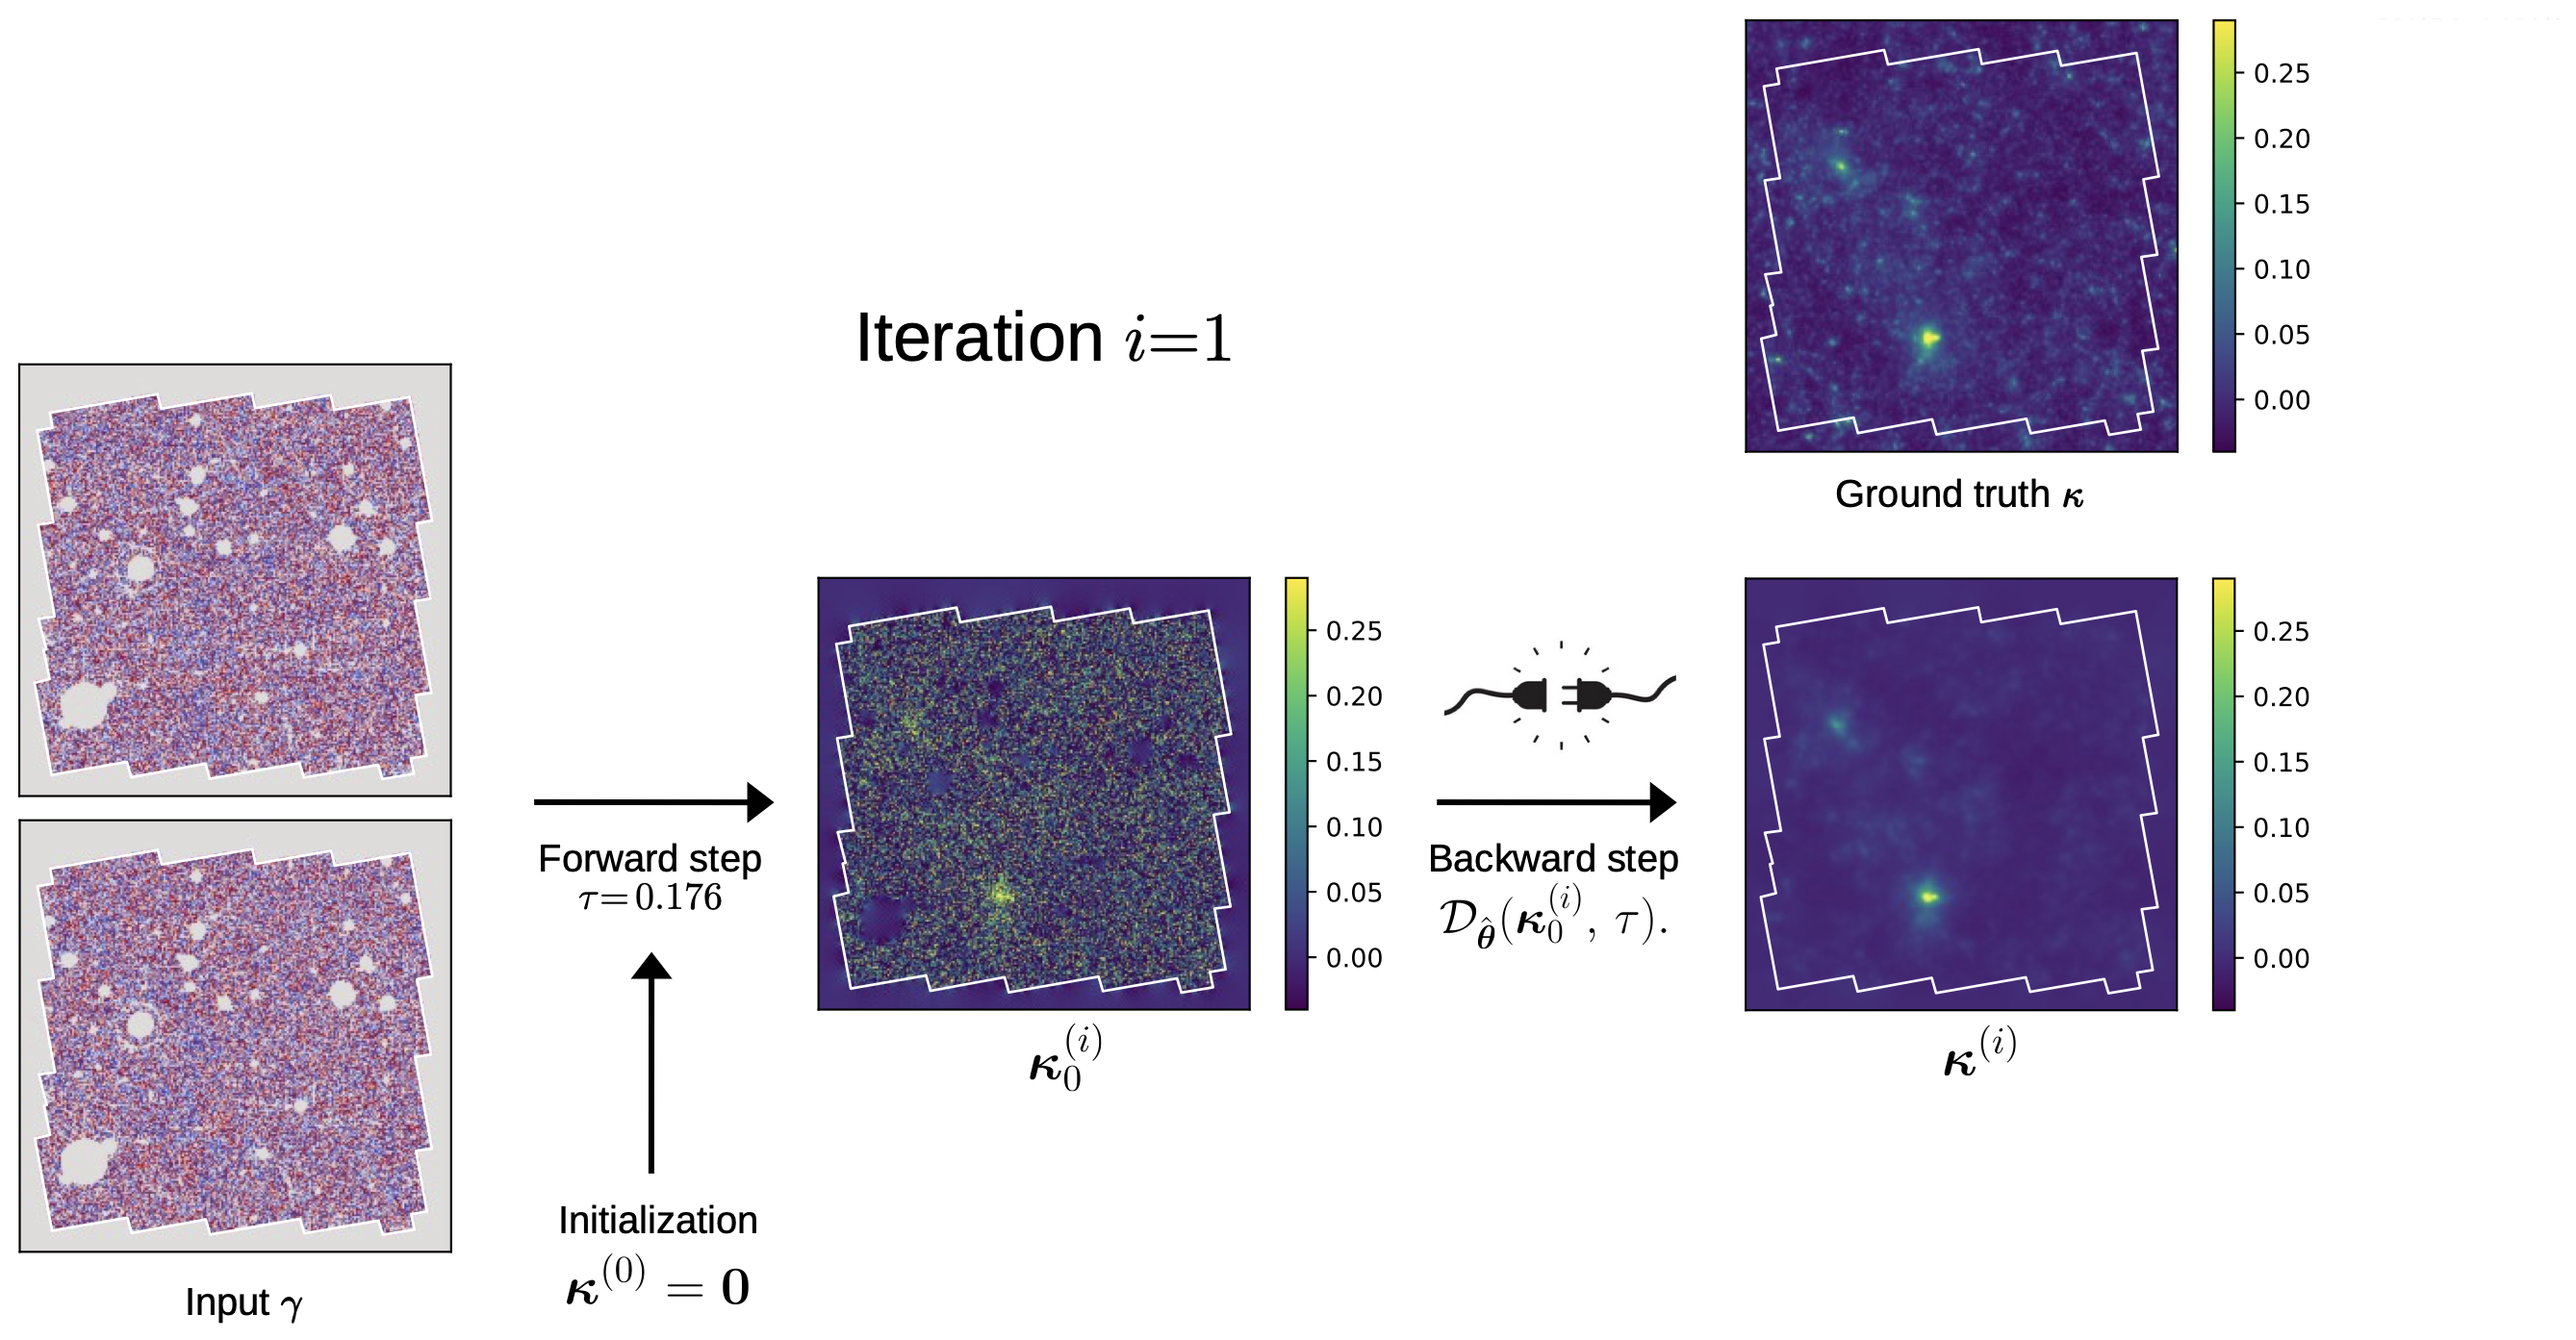
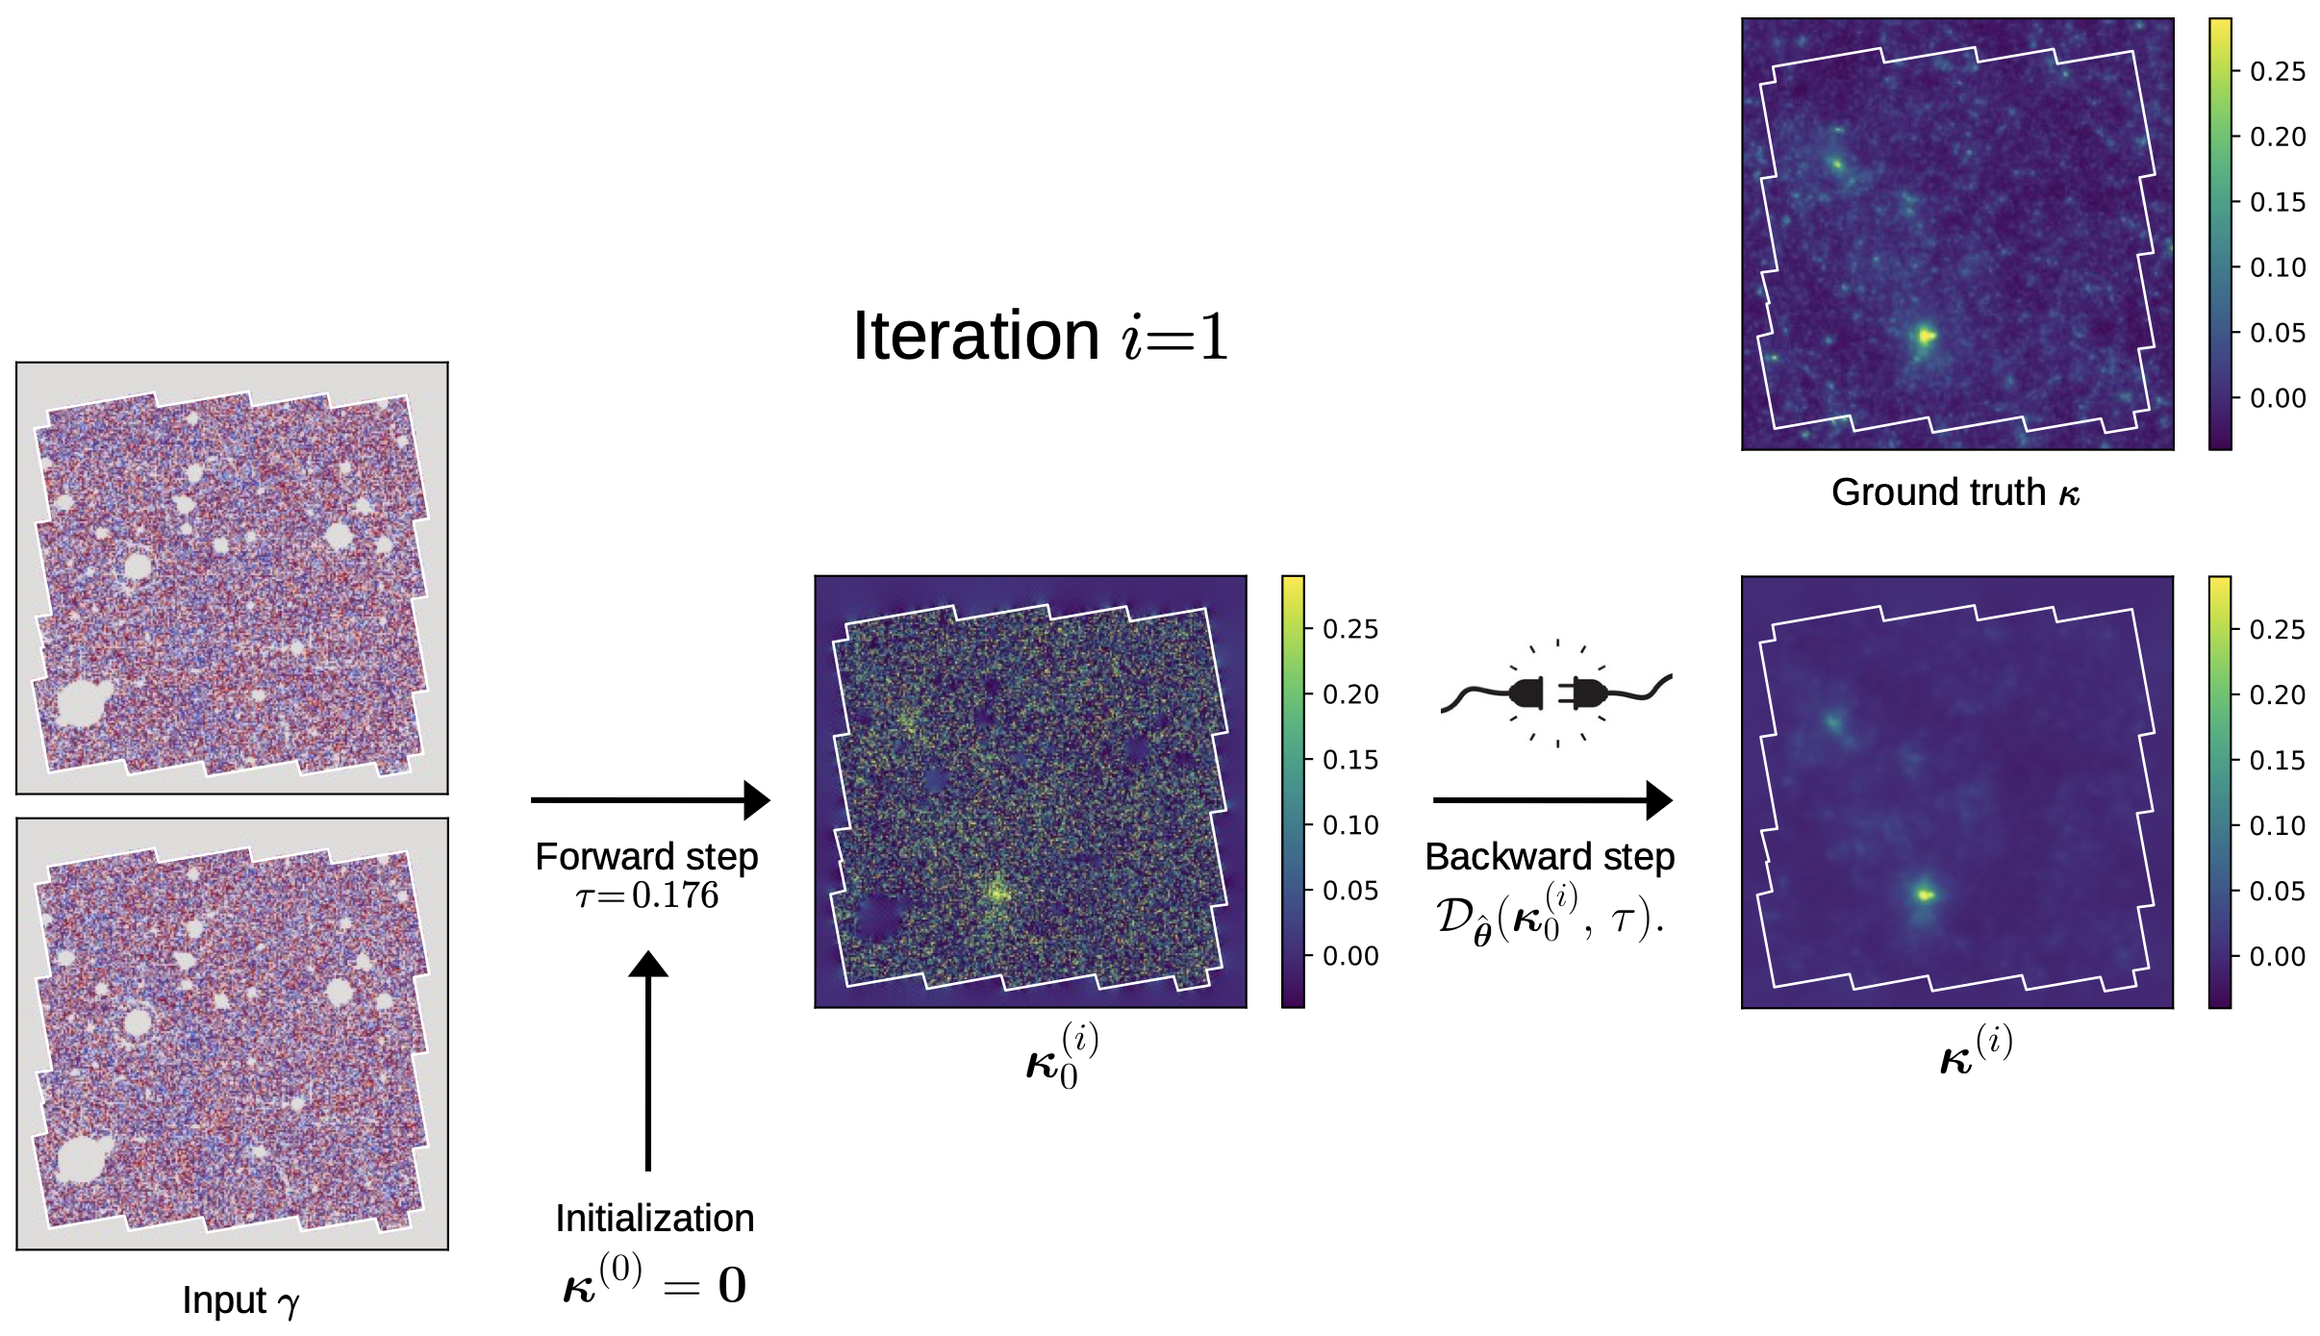
style(PhD_Defense_2026): the PnP text moves into the figure's own pocket
Andreas: drop the "Main idea:" tab, and use the void the figure leaves at its top-left instead of
a band above it - more organic, and it lets the figure grow.

THE LEFTWARD SHIFT HE SPOTTED WAS REAL, and it was my crop. The ink scan that produced the tight
crops sampled every 4th pixel and caught a single near-white stray at x=2816 of a 2880-wide PNG,
rgb(242,241,245). The real content ends at x=2597. So the figure was carrying 260px of phantom
whitespace on its right, which pushed everything visibly left of centre. Re-cropped at a threshold
that ignores near-white: aspect goes 1.92 -> 1.7365, and the figure needs no nudge to look centred.

The stage now carries the figure's aspect ratio, so both frames fill it exactly and the pocket's
percentages mean the same thing at any size. reveal's .r-stack was doing neither - it left the
image short of the width it was given and off-centre inside it.

The pocket is measured off the PNG, not guessed: free to 36.9% of its width and 27.0% of its
height. The block is given a negative left offset so it starts at the SLIDE's margin rather than
the figure's, which buys 36px, and its right edge lands just short of the "Iteration i" label.

ONE EQUATION, NOT TWO. The pocket is 168px tall and the two-equation version needed about 200,
which clipped the top Input-gamma panel. The prose names the substitution; F_Theta shows the
result and writes down the B and A the line below depends on. If the prox-to-F_Theta pair is
[…]

Changed region(s): [[0.0, 0.2477, 0.995, 0.9906], [0.653, 0.0, 0.995, 0.4024], [0.3109, 0.2167, 0.5286, 0.2786]]

diff --git a/PhD_Defense_2026/custom.css b/PhD_Defense_2026/custom.css
@@ -2644,24 +2644,35 @@
 .reveal .slides section .alert { font-style: normal; }
 
 /* --------------------------------------------------------------------------
-   PLUG-AND-PLAY, merged 2026-09-10.  The text is a wide low band across the
-   top and the iteration runs underneath it, so the abstract diagram and the
-   real maps stop competing for the same idea on two slides.
-   The figure is 1.92:1 after its own white margin, so at 78 % width it is
-   ~470px tall, which is what is left once the title and the band are paid for.
+   PLUG-AND-PLAY, merged 2026-09-10 and re-laid-out the same evening.
+   The stage carries the figure's own aspect ratio, so both frames fill it
+   exactly and the pocket's percentage coordinates mean the same thing at any
+   size.  reveal's .r-stack was doing neither: it left the image well short of
+   the width it was given and off-centre inside it.
    -------------------------------------------------------------------------- */
-.reveal .slides section.pnpcombo .pnp-band { width: 96%; margin: 0.35em auto 0; text-align: left; }
-.reveal .slides section.pnpcombo .pnp-band .block-content { padding: 8px 18px 10px; }
-.reveal .slides section.pnpcombo .pnp-band p { margin: 0.1em 0; font-size: 0.72em; line-height: 1.32; }
-.reveal .slides section.pnpcombo .pnp-eqs {
-	display: flex; align-items: center; justify-content: center; gap: 1.1em; margin: 0.3em 0 0.15em;
+/* Centred. The earlier right-shift was a workaround for a crop that was 260px too
+   wide: a single near-white stray pixel at x=2816 of the source PNG had been caught
+   by the ink scan and padded the figure with phantom whitespace on the right, which
+   is what made the content sit visibly left of centre. Re-cropped at a threshold
+   that ignores near-white, the figure is symmetric and needs no nudge. */
+.reveal .slides section.pnpcombo .pnp-stage {
+	position: relative; width: 90%; margin: 0.1em auto 0; aspect-ratio: 2412 / 1389;
 }
-.reveal .slides section.pnpcombo .pnp-eqs .katex { font-size: 0.78em; }
-.reveal .slides section.pnpcombo .pnp-eqs .arw { color: var(--accent); font-size: 1.15em; line-height: 1; }
-.reveal .slides section.pnpcombo .pnp-steps { width: 74%; margin: 0.3em auto 0; }
-/* reveal caps every slide image at max-width/max-height 95%, which was holding this
-   one well below the width it was given; the cap has to be lifted explicitly. */
-.reveal .slides section.pnpcombo .pnp-steps img {
-	width: 100%; max-width: none; max-height: none; height: auto;
+.reveal .slides section.pnpcombo .pnp-frame {
+	position: absolute; inset: 0; width: 100%; height: 100%; object-fit: contain;
 	margin: 0; border: 0; box-shadow: none; background: transparent;
+	max-width: none; max-height: none;
+}
+/* the void, measured off the PNG: free to 36.9 % of its width and 27 % of its height.
+   The negative left lets the block start at the slide's own margin rather than the
+   figure's, which is 36px further out. */
+.reveal .slides section.pnpcombo .pnp-pocket {
+	position: absolute; left: -3.3%; top: 0; width: 38.5%; margin: 0; text-align: left;
+}
+.reveal .slides section.pnpcombo .pnp-pocket .block-content { padding: 8px 13px 9px; }
+.reveal .slides section.pnpcombo .pnp-pocket p { margin: 0.14em 0; font-size: 0.72em; line-height: 1.26; }
+.reveal .slides section.pnpcombo .pnp-pocket p.eq { text-align: center; margin: 0.1em 0; }
+.reveal .slides section.pnpcombo .pnp-pocket p.eq .katex { font-size: 1em; }
+.reveal .slides section.pnpcombo .pnp-pocket p.dn {
+	text-align: center; margin: 0; color: var(--accent); line-height: 1; font-size: 0.8em;
 }

diff --git a/PhD_Defense_2026/index.html b/PhD_Defense_2026/index.html
@@ -1589,27 +1589,30 @@
 				<section data-background-color="#ffffff" class="light-slide pnpcombo">
 					<h3 class="slide-title">Plug-and-Play Mass Mapping</h3>
 
-					<div class="block pnp-band">
-						<div class="block-title">Main idea:</div>
-						<div class="block-content">
-							<p><em>Use the PnP framework:</em> replace <b class="alert">prox</b> by an off&#8209;the&#8209;shelf
-								<b class="alert">deep denoiser</b> trained on simulations</p>
-							<div class="pnp-eqs">
-								<span>$\kappa^{n+1} = \mathrm{prox}_{\tau g}\left( \kappa^n - \tau \nabla f(\kappa^n) \right)$</span>
-								<span class="arw" aria-hidden="true">&rarr;</span>
-								<span>$\kappa^{n+1} = F_{\Theta}\left( \kappa^n - \tau \mathbf{B} \left( \mathbf{A}\kappa^n - \gamma \right) \right)$</span>
-							</div>
-							<p>The series <b class="alert">converges</b> to a <b class="alert">fixed point</b> $\hat{\kappa}$,
-								and choosing $\mathbf{B} = \mathbf{A}^T \Sigma^{-1}$ makes the training phase
-								<b>independent of the noise covariance</b></p>
-						</div>
-					</div>
-
-					<div class="r-stack pnp-steps">
-						<img src="../assets/figures/maps/PnP_4_tight.png"
+					<!-- The figure leaves an L-shaped void at its top-left: nothing above the input
+					     maps and nothing left of the "Iteration i" label, measured at 33 % of its width
+					     by 27 % of its height. The text sits in that void instead of in a band above
+					     it, so the figure can run the full width of the slide. -->
+					<div class="pnp-stage">
+						<img class="pnp-frame" src="../assets/figures/maps/PnP_4_tight.png"
 							alt="PnPMass, iteration 1: the measured shear, initialisation at zero, the forward step giving a noisy map, and the denoiser giving a clean one beside the ground truth">
-						<img class="fragment" src="../assets/figures/maps/PnP_7_tight.png"
+						<img class="pnp-frame fragment" src="../assets/figures/maps/PnP_7_tight.png"
 							alt="PnPMass, iteration 2: the output of the first iteration fed back in">
+
+						<div class="block pnp-pocket">
+							<!-- One equation, not two. The pocket is 168px tall and the two-equation
+							     version needed ~200, which clipped the top Input-gamma panel. The prose
+							     names the substitution; F_Theta shows the result and writes down the
+							     B and A that the line below depends on. -->
+							<div class="block-content">
+								<p>Replace <b class="alert">prox</b> by an off&#8209;the&#8209;shelf
+									<b class="alert">deep denoiser</b> trained on simulations</p>
+								<p class="eq">$\kappa^{n+1} = F_{\Theta}\left( \kappa^n - \tau \mathbf{B} \left( \mathbf{A}\kappa^n - \gamma \right) \right)$</p>
+								<p>Converges to a <b class="alert">fixed point</b>; with
+									$\mathbf{B} = \mathbf{A}^T \Sigma^{-1}$ the training is
+									<b>independent of the noise covariance</b></p>
+							</div>
+						</div>
 					</div>
 				</section>
 
